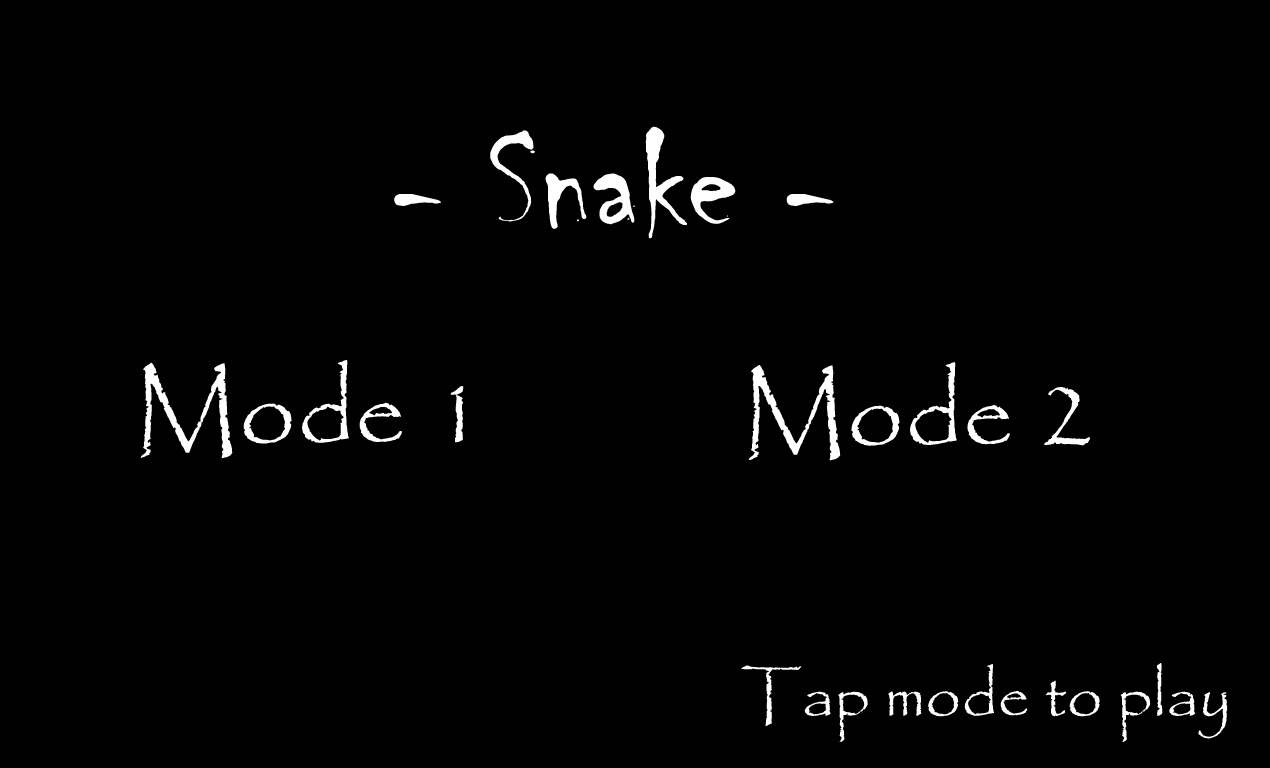
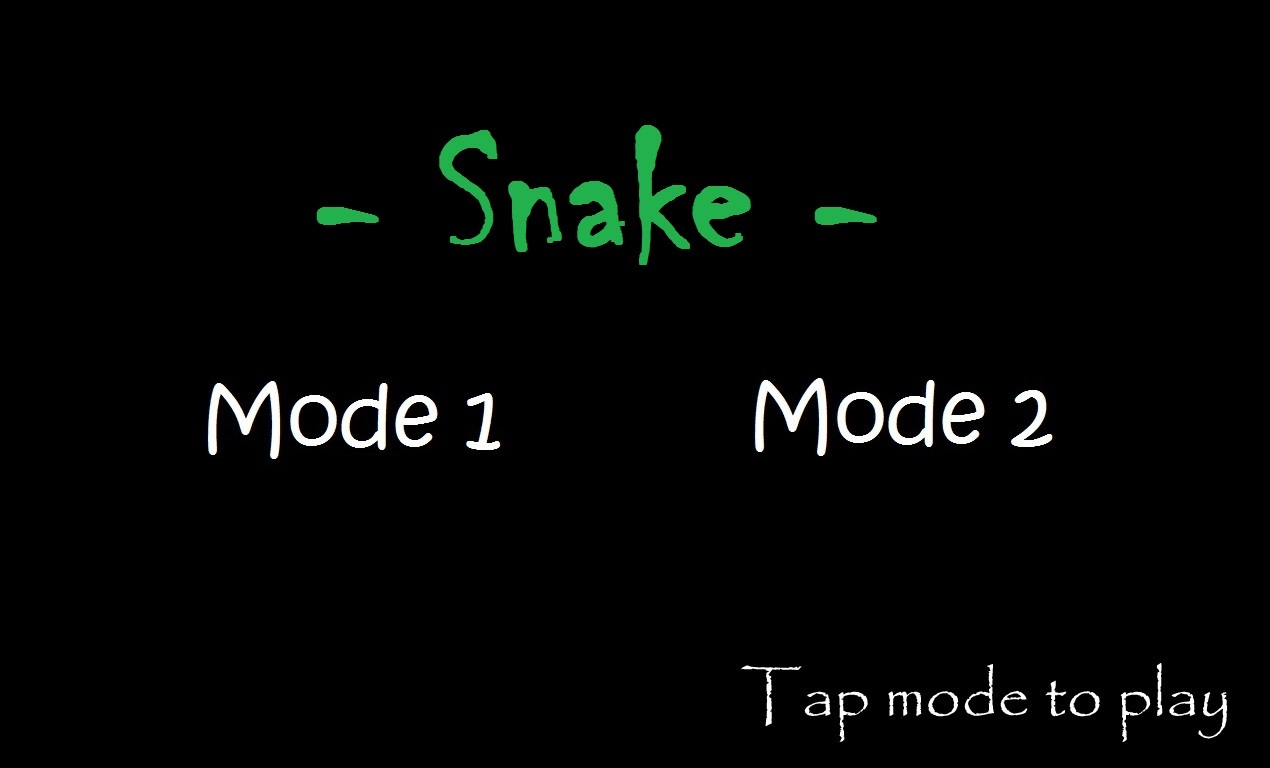
Change homescreen
- Change homescreen colors.

diff --git a/kk-snakegame/core/src/com/kk/snakegame/MainScreen.java b/kk-snakegame/core/src/com/kk/snakegame/MainScreen.java
@@ -84,7 +84,7 @@ public class MainScreen implements Screen{
         {
             sgame.batch.draw(image, 0, 0, 1280, 768);
             font.draw(sgame.batch, "High Score: " + getHighScore(1), 215, HEIGHT - 540);
-            font.draw(sgame.batch, "High Score: " + getHighScore(2), 860, HEIGHT - 540);
+            font.draw(sgame.batch, "High Score: " + getHighScore(2), 825, HEIGHT - 540);
         }
 
         sgame.batch.end();
